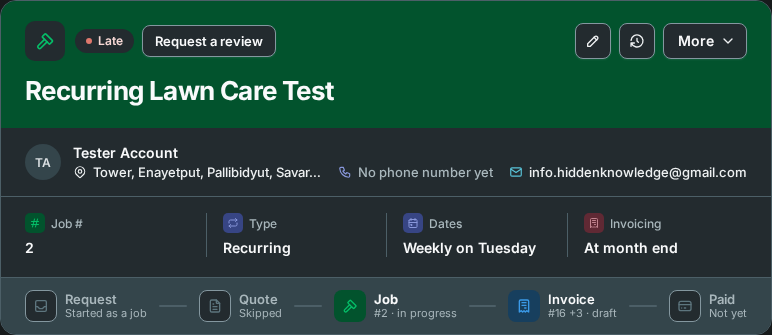
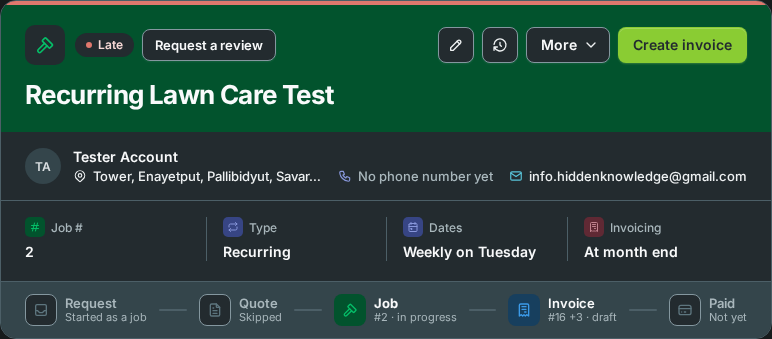
Record header: 4px status stripe and client top in surface-edge (Jafar 2026-10-20)

diff --git a/src/lib/components/work/WorkRecordHeader.svelte b/src/lib/components/work/WorkRecordHeader.svelte
@@ -17,7 +17,8 @@
 	// "Record header · C", approved 2026-10-20). One part for all six; only its data changes:
 	//
 	//   coloured top   the record tile and status pill, the actions at the right, then the title. The top
-	//                  takes the record type's own soft colour, never the status's — the pill carries that.
+	//                  takes the record type's own soft colour, never the status's — the pill and a 4px
+	//                  stripe along the card's top carry that.
 	//   client line    who the work is for, with their address, phone and email as plain links. The client
 	//                  page hands in its own line instead (its address and Message / Request a review).
 	//   facts          up to four facts the page chooses, in even columns.
@@ -134,7 +135,8 @@
 		class?: string;
 	} = $props();
 
-	// A payment belongs to the money side, so it shares the invoice's blue.
+	// A payment belongs to the money side, so it shares the invoice's blue. The client's own surface is
+	// the page colour, so its top takes the next palette step to stand apart from the page.
 	const tone = $derived.by(() => {
 		const kind = recordType.toLowerCase();
 		return kind === 'payment' ? 'invoice' : kind;
@@ -156,7 +158,10 @@
 <section
 	class={`record-header ${className}`}
 	style:--record-tone={`var(--color-${tone})`}
-	style:--record-surface={`var(--color-${tone}--surface)`}
+	style:--record-surface={tone === 'client'
+		? 'var(--color-client--surface-edge)'
+		: `var(--color-${tone}--surface)`}
+	style:--record-status={`var(--color-${statusTone})`}
 	aria-label="{recordType} summary"
 >
 	<div class="record-header__top">
@@ -321,6 +326,13 @@
 		border: var(--border-base) solid var(--color-border);
 		border-radius: var(--radius-large);
 		background: var(--color-surface);
+
+		// The status stripe: the pill's colour along the card's very top; the rounded corners clip it.
+		&::before {
+			flex: 0 0 4px;
+			background: var(--record-status);
+			content: '';
+		}
 
 		&__top {
 			display: flex;
